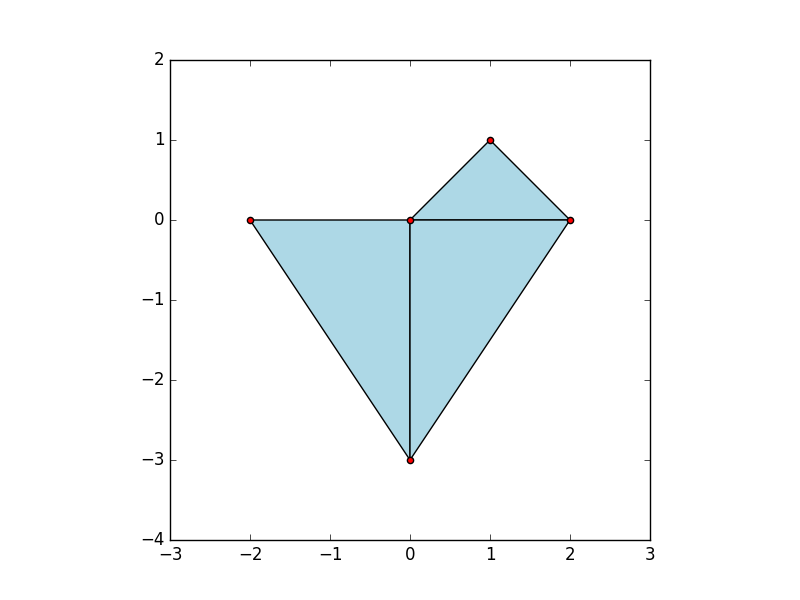
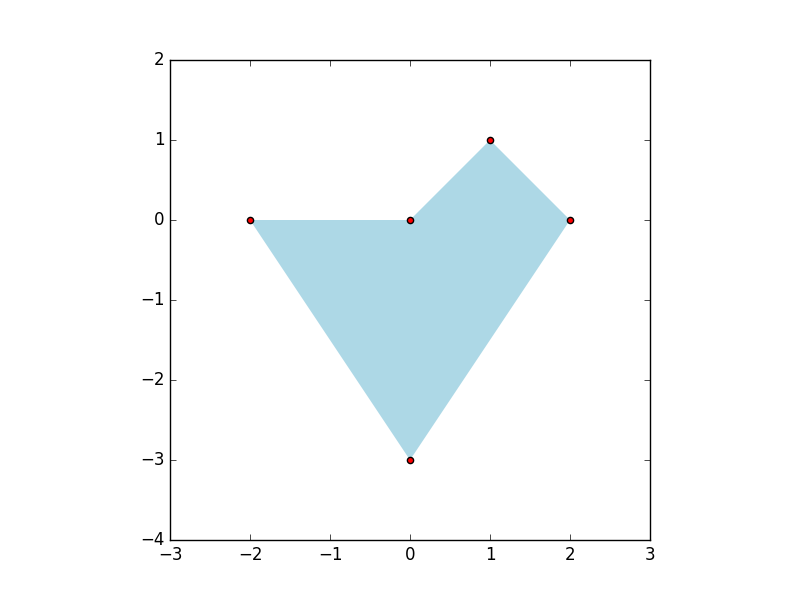
Removed bad anti-aliased lines from matplotlib graph. (This is due to a bug in matplotlib)

diff --git a/tests/utils/plot_mesh.py b/tests/utils/plot_mesh.py
@@ -69,7 +69,7 @@ def strict_tri_reordering(points):
 def force_strict_ordering(polys):
     return [strict_tri_reordering(group) for group in polys]
 
-def plot_raw_mesh(points, triangles, show = True):
+def plot_raw_mesh(points, triangles, show = True, add_lines = True):
     """
     Plot a 2D triangular mesh from points and triangle indices.
 
@@ -88,7 +88,7 @@ def plot_raw_mesh(points, triangles, show = True):
     ax.set_aspect('equal')
 
     # Add shaded triangles
-    coll = PolyCollection(polys, facecolors="lightblue", edgecolors="k", linewidths=1)
+    coll = PolyCollection(polys, facecolors="lightblue", edgecolors="k", linewidths=1 if add_lines else 0)
     ax.add_collection(coll)
 
     # Plot vertices
@@ -99,13 +99,13 @@ def plot_raw_mesh(points, triangles, show = True):
 
     return fig
 
-def plot_mesh(mesh: "Mesh", show = True):
+def plot_mesh(mesh: "Mesh", show = True, add_lines = True):
 
     vertices, triangles = mesh.fetch_mesh()
 
     points = [vertex.location for vertex in vertices]
 
-    fig = plot_raw_mesh(points, triangles, show = show)
+    fig = plot_raw_mesh(points, triangles, show = show, add_lines = add_lines)
 
     return fig
 

diff --git a/tests/plots/actions/delete_test.py b/tests/plots/actions/delete_test.py
@@ -27,7 +27,7 @@ def test_delete_one_node():
     assert len(st.redo_stack) == 0
     assert len(st.undo_stack) == 1
 
-    fig = plot_mesh(mesh, show = False)
+    fig = plot_mesh(mesh, show = False, add_lines = False)
     return fig
 
 @pytest.mark.mpl_image_compare
@@ -64,7 +64,7 @@ def test_delete_and_undo_one_node():
     assert len(st.redo_stack) == 1
     assert len(st.undo_stack) == 0
 
-    fig = plot_mesh(mesh, show = False)
+    fig = plot_mesh(mesh, show = False, add_lines = False)
     return fig
 
 
@@ -113,5 +113,5 @@ def test_delete_and_undo_redo_one_node():
     assert len(st.redo_stack) == 0
     assert len(st.undo_stack) == 1
 
-    fig = plot_mesh(mesh, show = False)
+    fig = plot_mesh(mesh, show = False, add_lines = False)
     return fig

diff --git a/tests/plots/test_plot.py b/tests/plots/test_plot.py
@@ -11,6 +11,6 @@ def test_plot():
 
 @pytest.mark.mpl_image_compare
 def test_heart_plot():
-    fig = plot_mesh(generate_heart(), show = False)
+    fig = plot_mesh(generate_heart(), show = False, add_lines = False)
 
     return fig
